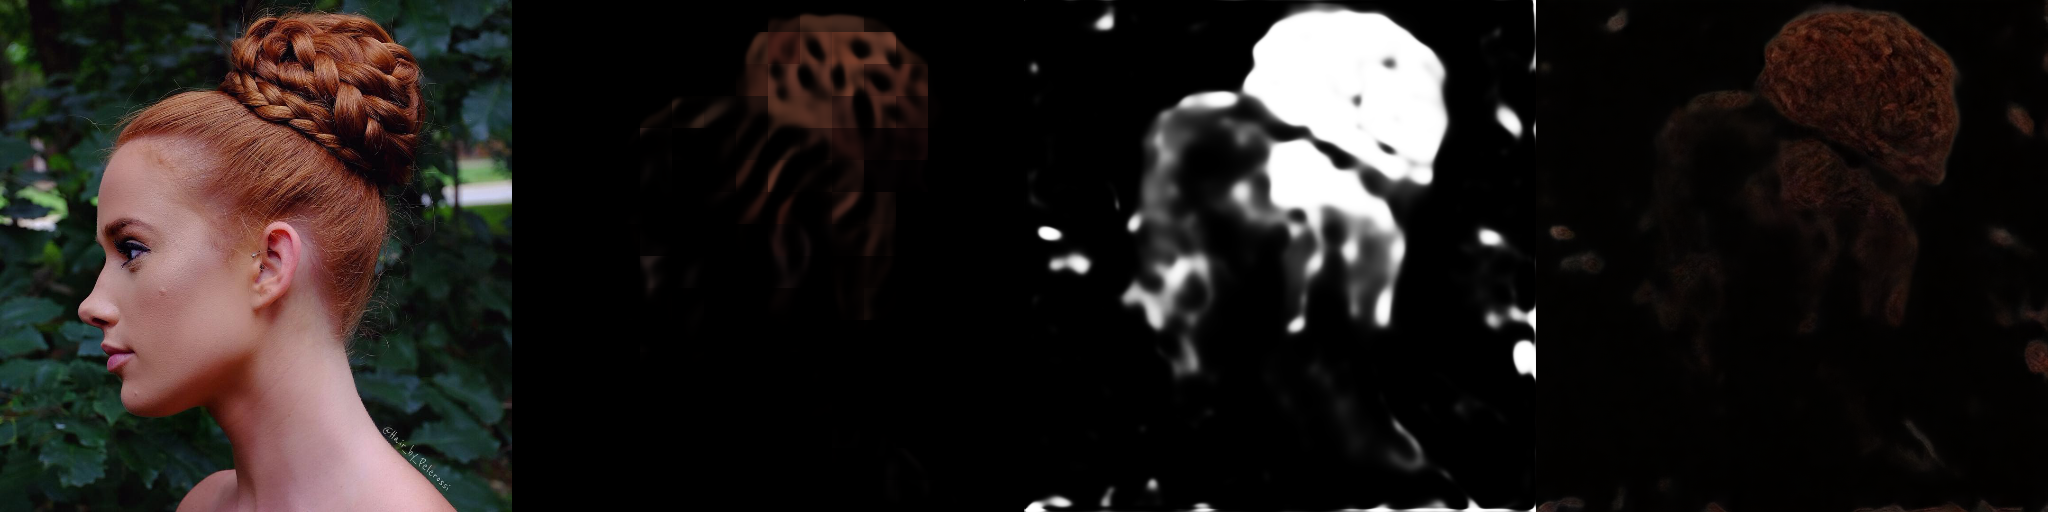
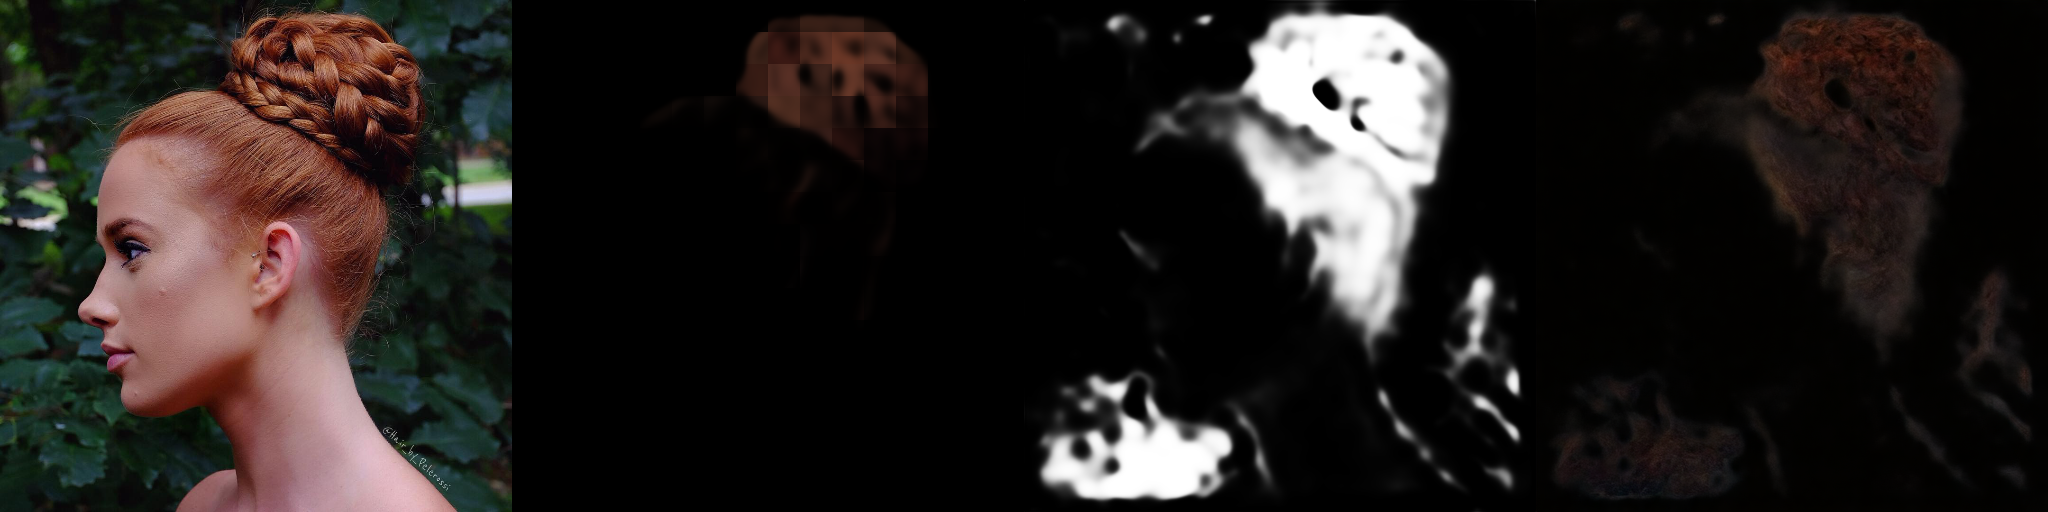
update

diff --git a/[0509][서현택].md b/[0509][서현택].md
@@ -15,8 +15,8 @@
 
 | | Sketch | Matte |
 |---|---|---|
-| braid_2534 | ![](inverse_head/last/braid_2534_sketch.png) | ![](inverse_head/last/braid_2534_matte.png) |
-| braid_2537 | ![](inverse_head/last/braid_2537_sketch.png) | ![](inverse_head/last/braid_2537_matte.png) |
+| braid_2534 | ![](inverse_head2/last/braid_2534_sketch.png) | ![](inverse_head2/last/braid_2534_matte.png) |
+| braid_2537 | ![](inverse_head2/last/braid_2537_sketch.png) | ![](inverse_head2/last/braid_2537_matte.png) |
 
 **Roundtrip 결과 (원본 → sketch → matte → forward model → 생성):**
 
